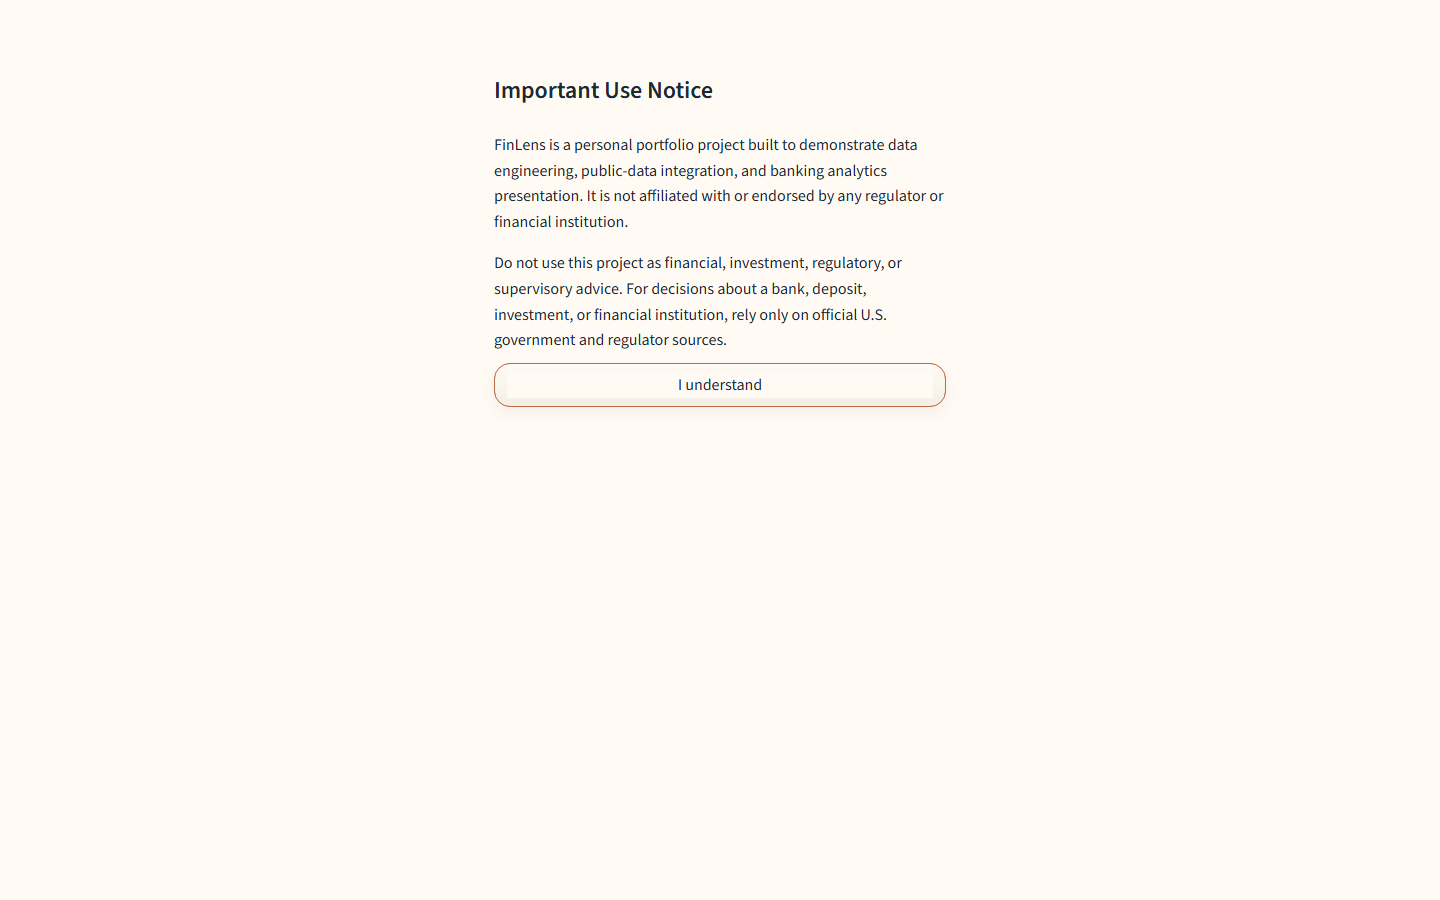
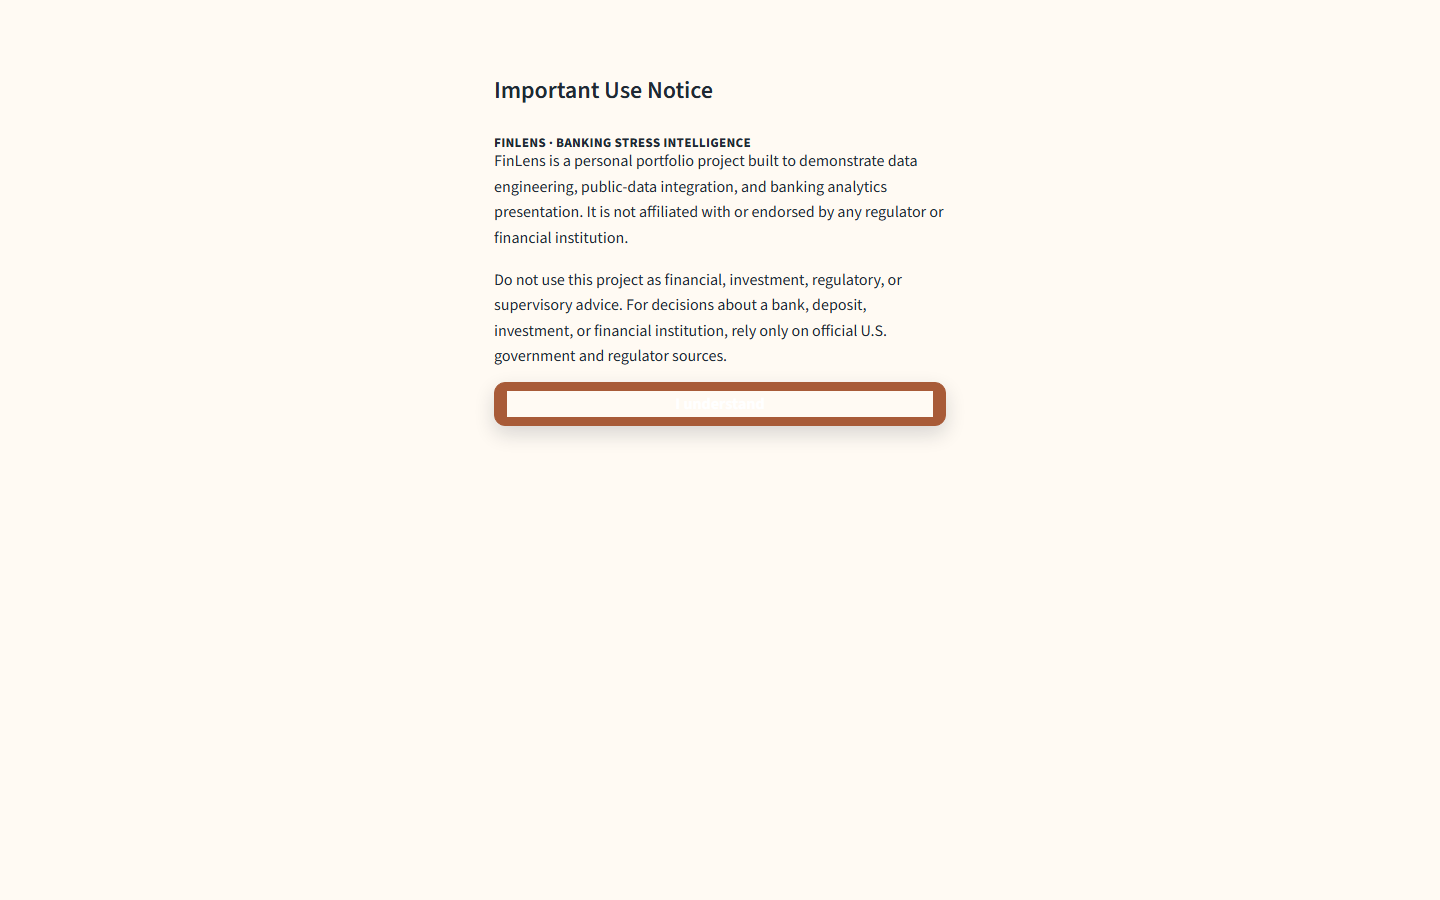
Use-notice gate: filled accent CTA + brand line (first-impression polish)
The "I understand" button was a low-affordance ghost (white-on-white). Root cause: Streamlit's
primary button keeps an inner emotion wrapper with a white fill over the button's accent bg.
Fixed with a dialog-scoped override (accent on the button, transparent on its children, white
text) and added a "FinLens · Banking Stress Intelligence" brand line so the gate reads as
intentional. Dismiss still works (home renders after click).

Changed region(s): [[0.3438, 0.1556, 0.6562, 0.4978]]

diff --git a/streamlit_app/app.py b/streamlit_app/app.py
@@ -118,7 +118,32 @@ st.markdown(
         display: none !important;
     }
     div[role="dialog"] [data-testid="stVerticalBlock"] {
-        gap: .65rem !important;
+        gap: .6rem !important;
+    }
+    /* Filled accent primary CTA (overrides the global ghost button styling with a more
+       specific selector that mirrors the global one, prefixed by the dialog) */
+    div[role="dialog"] div[data-testid="stButton"] > button {
+        background: #bf6d47 !important;
+        border: 1px solid #bf6d47 !important;
+        border-radius: 11px !important;
+        box-shadow: 0 8px 20px rgba(15, 23, 42, .16) !important;
+        margin-top: .2rem;
+    }
+    div[role="dialog"] div[data-testid="stButton"] > button:hover {
+        background: #a85b38 !important; border-color: #a85b38 !important;
+    }
+    div[role="dialog"] div[data-testid="stButton"] > button,
+    div[role="dialog"] div[data-testid="stButton"] > button * {
+        color: #ffffff !important; -webkit-text-fill-color: #ffffff !important;
+        font-weight: 700 !important;
+    }
+    /* children only: clear any inner white fill so the button's accent shows (NOT the button) */
+    div[role="dialog"] div[data-testid="stButton"] > button * {
+        background: transparent !important;
+    }
+    .gate-brand {
+        font-weight: 800; letter-spacing: .02em; color: #bf6d47;
+        font-size: .82rem; text-transform: uppercase; margin-bottom: .1rem;
     }
     </style>
     """,
@@ -128,6 +153,8 @@ st.markdown(
 
 @st.dialog("Important Use Notice", width="small", dismissible=False)
 def _legal_disclaimer() -> None:
+    st.markdown('<div class="gate-brand">FinLens · Banking Stress Intelligence</div>',
+                unsafe_allow_html=True)
     st.markdown(
         """
         FinLens is a personal portfolio project built to demonstrate data engineering,